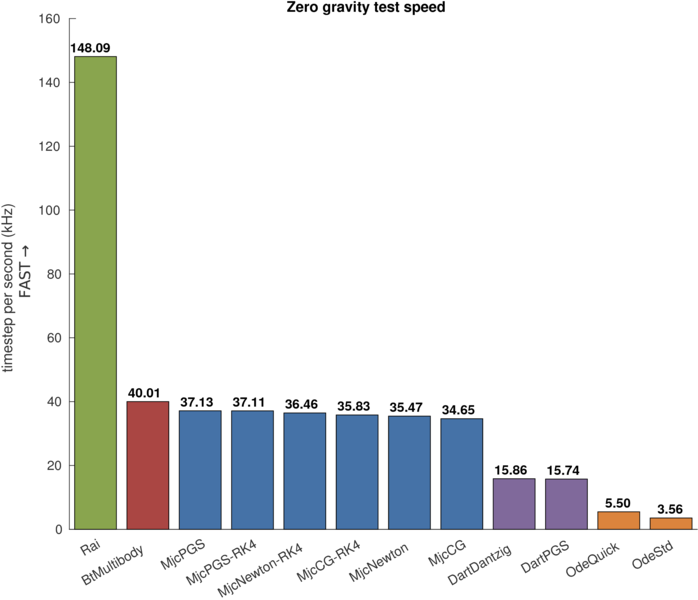
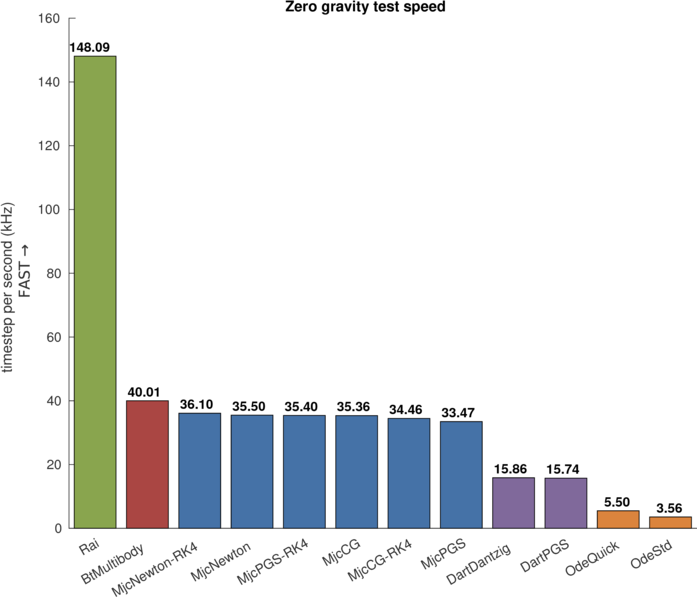
- mujoco get velocity function edited - anymal momentum test updated (plot changed for mujoco)

diff --git a/sim/mujocoSim/src/object/MjcSingleBodyObject.cpp b/sim/mujocoSim/src/object/MjcSingleBodyObject.cpp
@@ -94,6 +94,7 @@ void MjcSingleBodyObject::setExternalTorque(Eigen::Vector3d torque) {
   extforce[1] = torque[1];
   extforce[2] = torque[2];
 }
+
 mjtNum *MjcSingleBodyObject::getGeomPosition() {
   int geomIndex = worldModel_->body_geomadr[bodyID_] + geomID_;
   return worldData_->geom_xpos + 3 * geomIndex;
@@ -109,11 +110,15 @@ mjtNum *MjcSingleBodyObject::getBodyComPosition() {
 }
 
 mjtNum *MjcSingleBodyObject::getBodyLinearVelocity() {
-  return worldData_->cvel + 6 * bodyID_ + 3;
+  mj_objectVelocity(worldModel_, worldData_, mjOBJ_BODY, bodyID_, temp6D_, 0);
+  return temp6D_ + 3;
+//  return worldData_->cvel + 6 * bodyID_ + 3;
 }
 
 mjtNum *MjcSingleBodyObject::getBodyAngularVelocity() {
-  return worldData_->cvel + 6 * bodyID_;
+  mj_objectVelocity(worldModel_, worldData_, mjOBJ_BODY, bodyID_, temp6D_, 0);
+  return temp6D_;
+//  return worldData_->cvel + 6 * bodyID_;
 }
 
 /// friction for (slide, spin, roll)

diff --git a/sim/mujocoSim/src/object/MjcSingleBodyObject.hpp b/sim/mujocoSim/src/object/MjcSingleBodyObject.hpp
@@ -95,6 +95,10 @@ class MjcSingleBodyObject: public benchmark::object::SingleBodyObjectInterface {
 
   benchmark::Vec<3> linearMomentum_ = {0, 0, 0};
 
+  mjtNum temp6D_[6] = {0, 0, 0, 0, 0, 0};
+  mjtNum temp3D_[3] = {0, 0, 0};
+  mjtNum *tempPtr;
+
   bool isMovable_ = true;
 
 };
